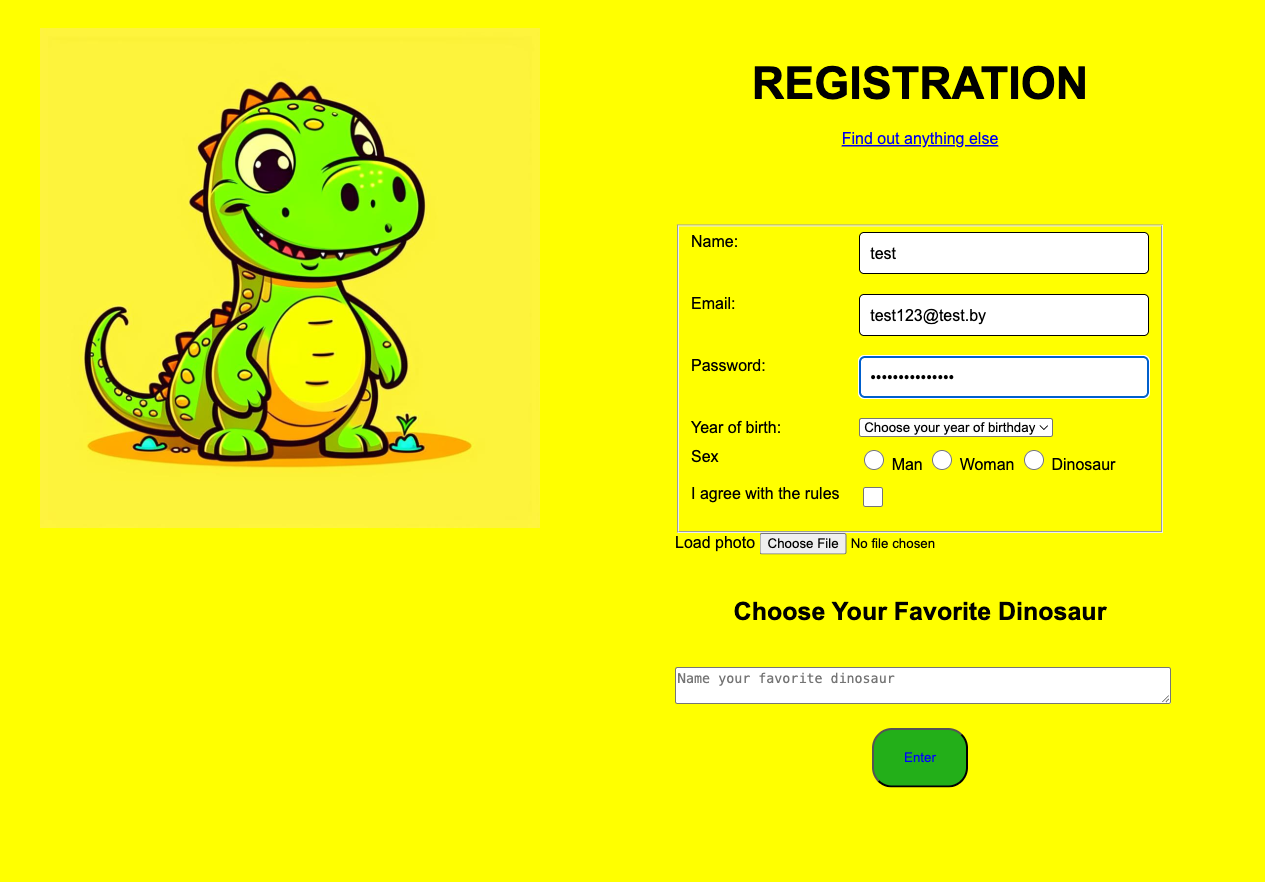
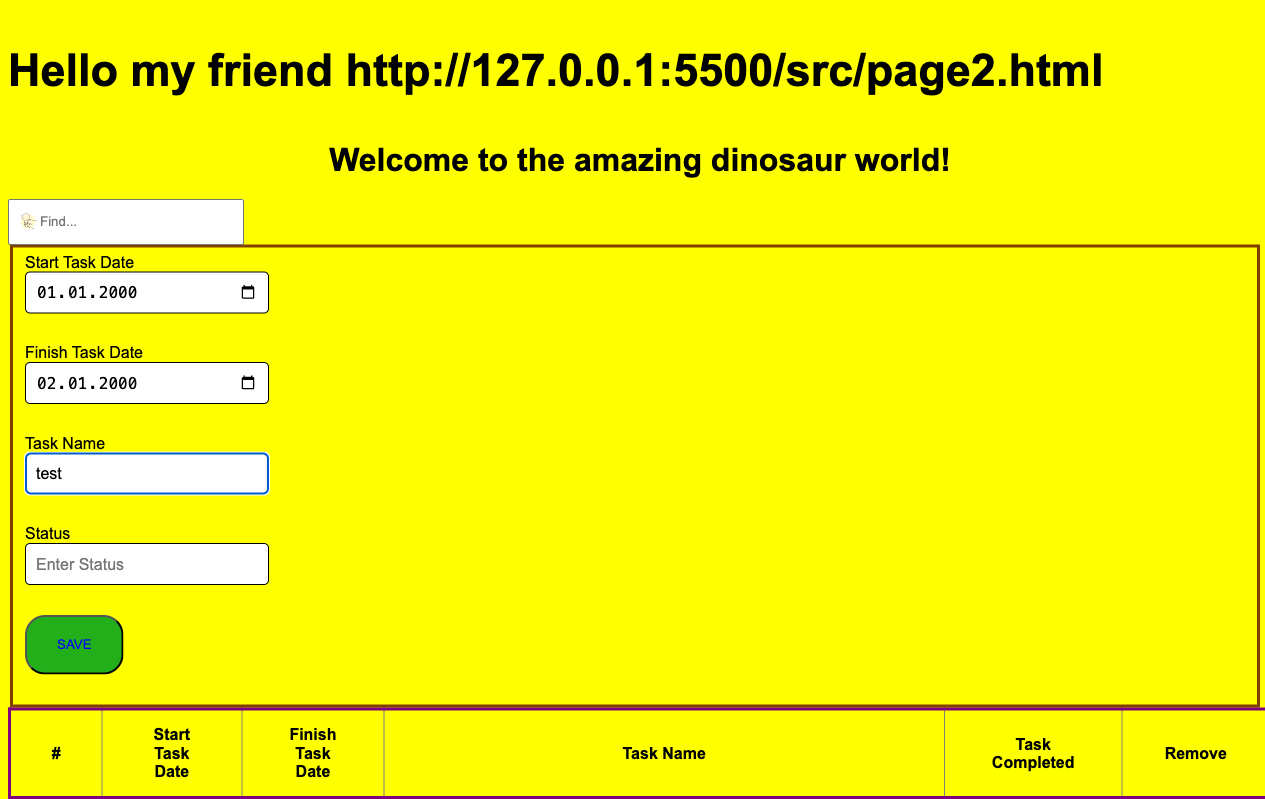
update test page2.0

diff --git a/tests/screenshotPage2.spec.ts b/tests/screenshotPage2.spec.ts
@@ -22,8 +22,8 @@ test.describe('screenshot', () => {
     const dropdown = page.locator('#taskcomps');
 
     // Вводим данные в поля формы
-    await page.fill('input#start', '01.01.2100');
-    await page.fill('input#finish', '02.01.2100');
+    await page.fill('input#start', '2000-01-01');
+    await page.fill('input#finish', '2000-01-02');
     await page.fill('input#taskname', 'test');
     await page.screenshot({ path: 'screenshots/02-form-filled.png', fullPage: true });
 
